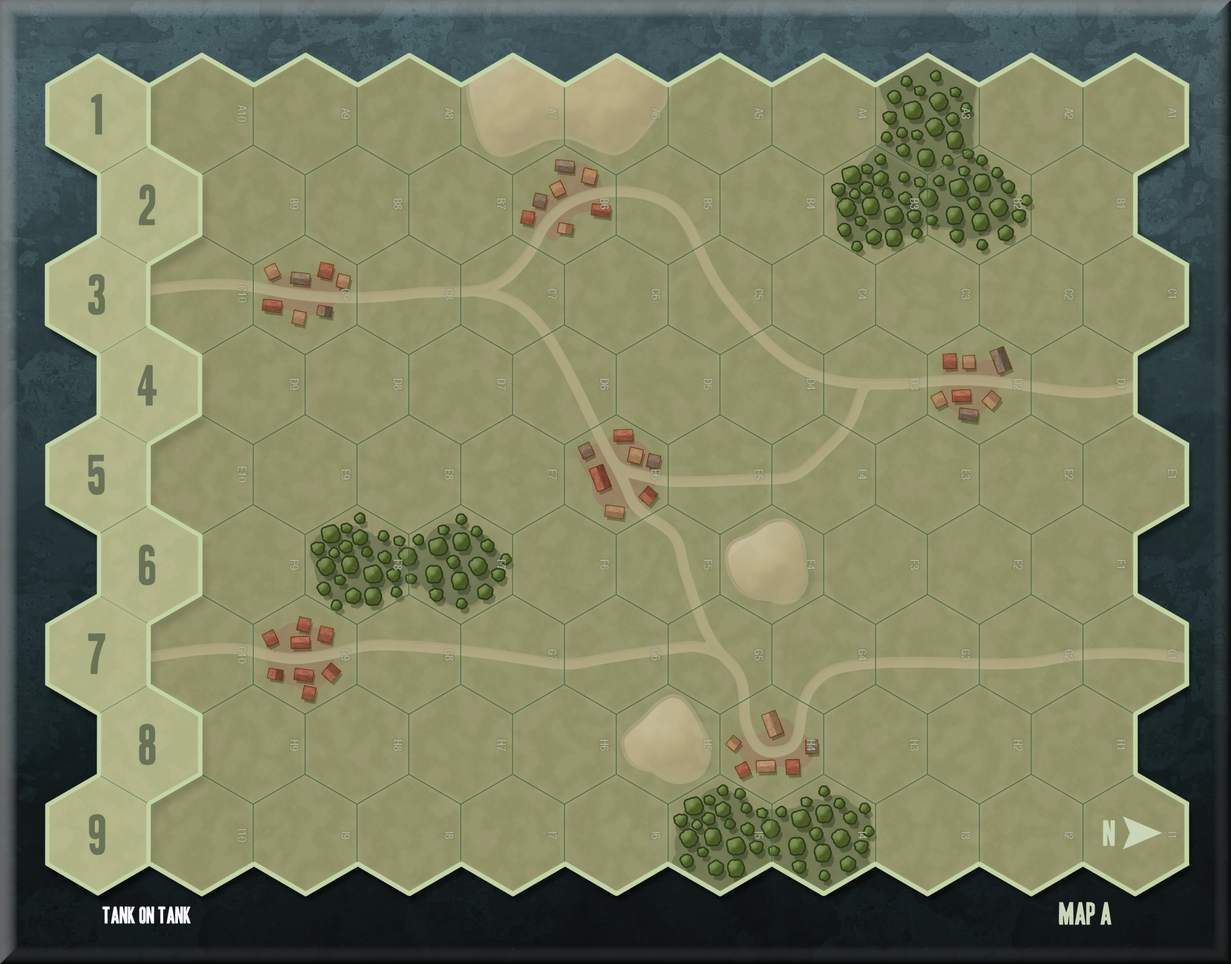
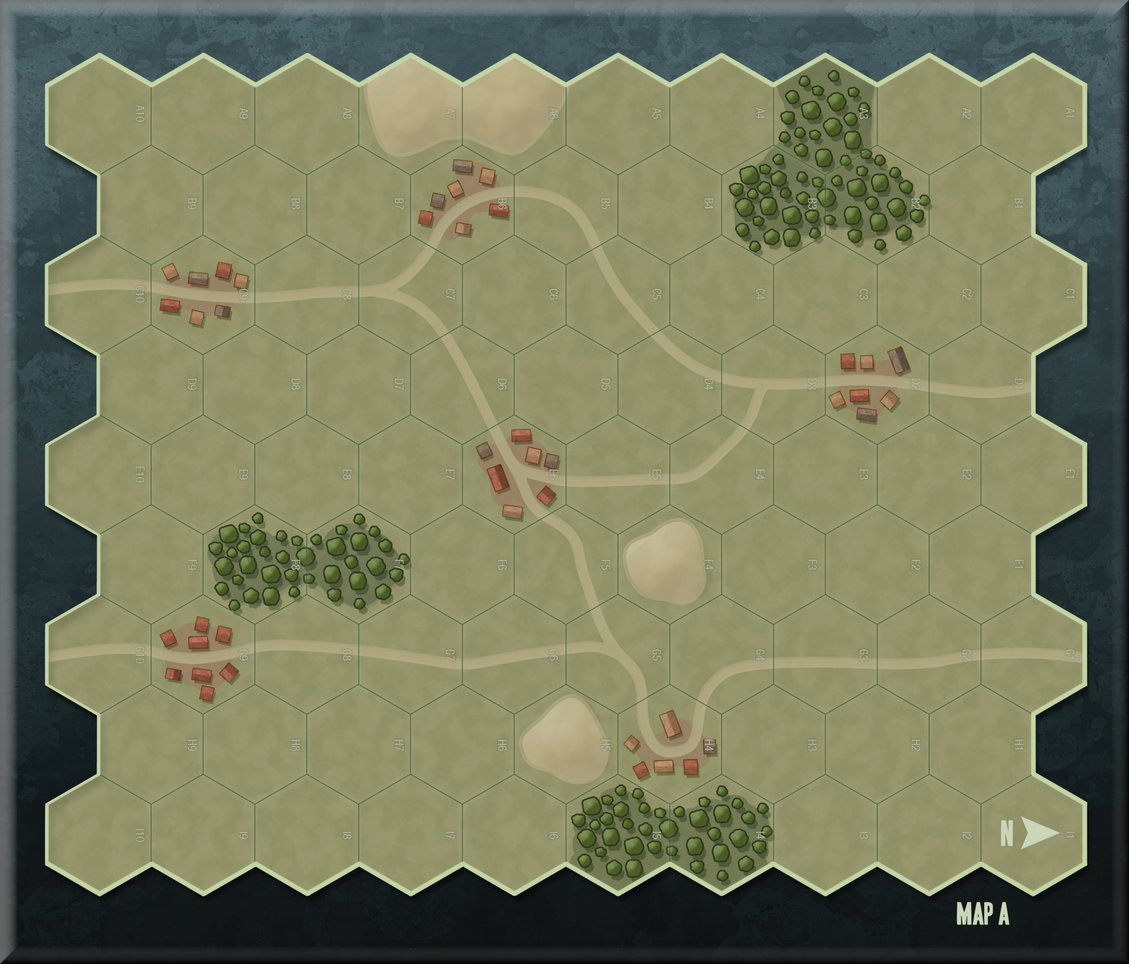
cut out turns from map_a

Changed region(s): [[0.0311, 0.0308, 0.965, 0.9846], [0.8093, 0.7692, 0.8405, 0.8]]

diff --git a/desktop/src/ch/asynk/tankontank/desktop/DesktopLauncher.java b/desktop/src/ch/asynk/tankontank/desktop/DesktopLauncher.java
@@ -9,7 +9,7 @@ public class DesktopLauncher {
         LwjglApplicationConfiguration config = new LwjglApplicationConfiguration();
         config.title = "Tank On Tank";
         config.width = 800;
-        config.height = 626;
+        config.height = 682;
         new LwjglApplication(new TankOnTank(), config);
     }
 }

diff --git a/core/src/ch/asynk/tankontank/game/battles/Factory.java b/core/src/ch/asynk/tankontank/game/battles/Factory.java
@@ -59,7 +59,7 @@ public class Factory implements Board.TileBuilder, Disposable
         Board.Config cfg = new Board.Config();
         cfg.cols = 10;
         cfg.rows = 9;
-        cfg.x0 = 272;
+        cfg.x0 = 86;
         cfg.y0 = 182;
         cfg.w = 189;
         cfg.dw = 94;
